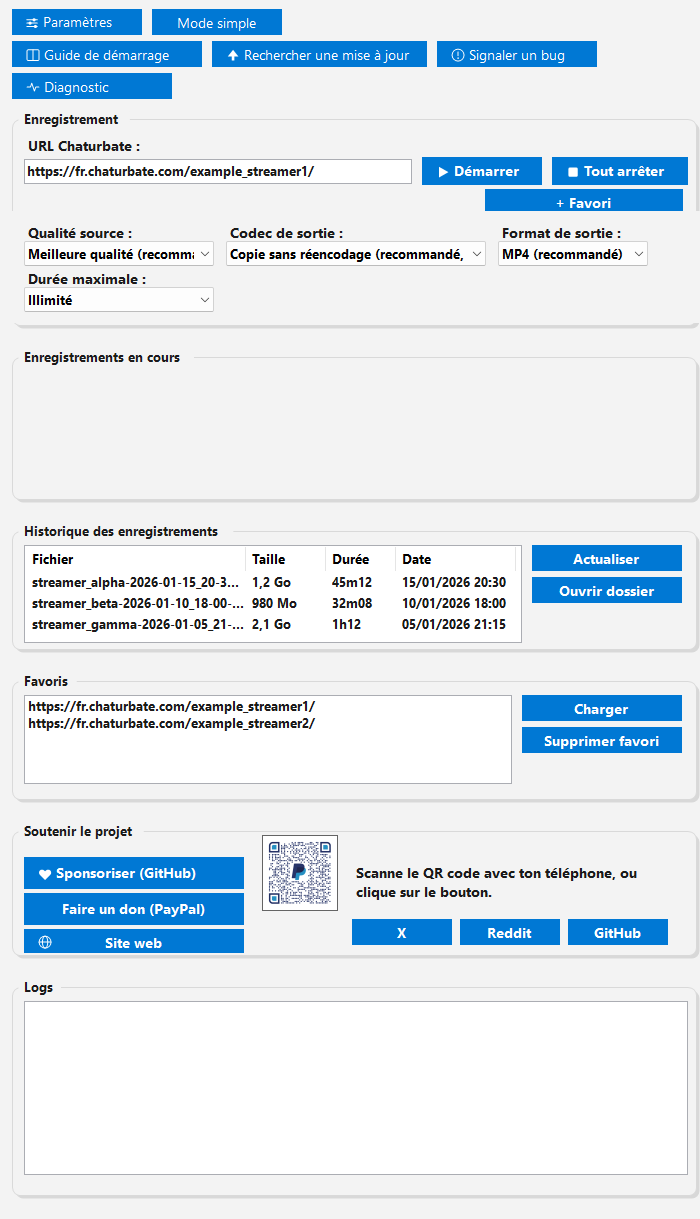
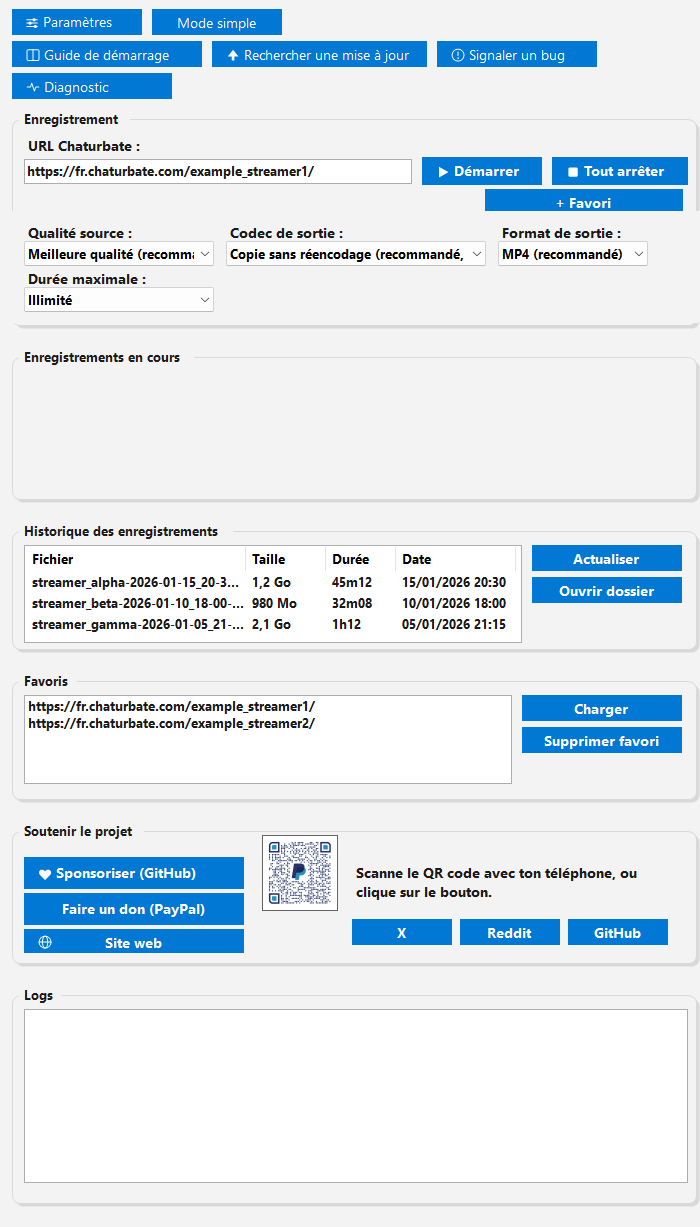
Decolle le bouton « Site web » de la bordure du panneau (v1.22.2) + captures finales
Defaut vu sur la capture regeneree en 99.0, pas signale par ailleurs : grpDonate
a 136 px ne laissait que 2 px sous le dernier bouton. Geometriquement correct
— rien ne debordait, le corps du panneau va jusqu'a Height - 4 et le bouton
finit a 130 — mais visuellement colle a la bordure, et c'est le premier detail
qui saute aux yeux sur une capture publiee. Hauteur portee a 144, soit 10 px de
garde, coherents avec les 34 px qui separent le haut du panneau du premier
bouton. grpLogs suit automatiquement (position calculee depuis grpDonate.Bottom
dans ApplyUiMode).

Captures clair et sombre remplacees par la version d'apres correctif, pour que
ce qui est publie corresponde a ce que l'utilisateur verra. La capture de la
fenetre Parametres est inchangee, SettingsForm n'ayant pas bouge.

Corollaire de methode retenu dans CLAUDE.md : regenerer les captures est aussi
une revue d'interface — c'est le seul moment ou l'on regarde l'ecran entier d'un
oeil neuf.

diff --git a/MainForm.cs b/MainForm.cs
@@ -2229,15 +2229,20 @@ namespace ChaturbateRecorderApp
             // Hauteur portée de 100 à 136 pour loger un troisième bouton : les
             // deux précédents descendaient déjà jusqu'à y=94.
             //
-            // 136 et pas moins : RoundedGroupPanel dessine son corps jusqu'à
-            // Height - 1 - ShadowSize, soit Height - 4. Le dernier bouton finit
-            // à y=130, donc 136 lui laisse les 2 px de garde qu'avait déjà le
-            // panneau d'origine (100 - 4 = 96 pour un bouton finissant à 94).
-            // À 132 il débordait sous la bordure — constaté à la capture.
+            // RoundedGroupPanel dessine son corps jusqu'à Height - 1 - ShadowSize,
+            // soit Height - 4, et le dernier bouton ("Site web") finit à y=130.
+            //
+            // 144 et non 136 : à 136 la garde n'était que de 2 px, ce qui est
+            // géométriquement correct (rien ne débordait) mais donne un bouton
+            // visuellement collé à la bordure — flagrant sur les captures
+            // publiées (99.0), où c'est le premier détail qui saute aux yeux.
+            // 144 porte la garde à 10 px, cohérente avec les 34 px qui séparent
+            // le haut du panneau du premier bouton. Ne pas descendre en dessous
+            // de 134 : à 132 le bouton passait réellement sous la bordure.
             //
             // La position de grpLogs est recalculée à partir de
             // grpDonate.Bottom dans ApplyUiMode, elle suit automatiquement.
-            grpDonate = new RoundedGroupPanel { Title = "Soutenir le projet", Location = new Point(12, 606), Size = new Size(660, 136) };
+            grpDonate = new RoundedGroupPanel { Title = "Soutenir le projet", Location = new Point(12, 606), Size = new Size(660, 144) };
             sponsorButton = new Button { Text = "Sponsoriser (GitHub)", Location = new Point(12, 34), Size = new Size(220, 32) };
             donateButton = new Button { Text = "Faire un don (PayPal)", Location = new Point(12, 70), Size = new Size(220, 32) };
             websiteButton = new Button { Text = "Site web", Location = new Point(12, 106), Size = new Size(220, 24) };

diff --git a/Config/Changelog.cs b/Config/Changelog.cs
@@ -181,6 +181,10 @@ namespace ChaturbateRecorderApp.Config
                 "Correctif : lancer l'exécutable plusieurs fois ouvrait autant d'instances, empilant les icônes dans la barre des tâches. Un second lancement réaffiche désormais la fenêtre déjà ouverte — utile depuis que la fenêtre se masque dans la zone de notification au lieu de se fermer.",
                 "Correctif : le texte du bouton \"Site web\" n'était pas centré comme celui des boutons \"Sponsoriser\" et \"Faire un don\" juste au-dessus.",
             }),
+            ("1.22.2", new[]
+            {
+                "Le bouton \"Site web\" n'est plus collé à la bordure basse du panneau \"Soutenir le projet\" : le panneau a été agrandi pour lui laisser la même marge que celle du haut.",
+            }),
         };
 
         /// <summary>
@@ -242,6 +246,10 @@ namespace ChaturbateRecorderApp.Config
                 "Fix: adding an offline live triggered an error notification every 30 seconds, indefinitely, and it kept coming even after the recording had been cancelled and removed from the list. The 5-attempt reconnection limit in fact never applied, and removing a row left yt-dlp running in the background.",
                 "Fix: launching the executable several times opened as many instances, stacking icons in the taskbar. A second launch now brings the already-open window back — useful since the window hides in the notification area instead of closing.",
                 "Fix: the \"Website\" button's text was not centred like that of the \"Sponsor\" and \"Donate\" buttons just above it.",
+            },
+            ["1.22.2"] = new[]
+            {
+                "The \"Website\" button is no longer flush against the bottom border of the \"Support the project\" panel: the panel was made taller to give it the same margin as the top.",
             },
         };
 

diff --git a/CLAUDE.md b/CLAUDE.md
@@ -4,12 +4,24 @@ App WinForms .NET 10, portage d'un script PowerShell (`legacy-powershell/`).
 Dépôt public : https://github.com/Tomoushie/ChaturbateRecorder (branche `main`).
 Site : https://tomoushie.github.io/ChaturbateRecorder/
 
-## État au 2026-08-04 — version courante : v1.22.1 (app), SentinelGuard 1.0.0 sur nuget.org, CI/CD + site Jekyll en place (34.0/37.0), site/README/wiki bilingues (25.0/25.1)
+## État au 2026-08-04 — version courante : v1.22.2 (app), SentinelGuard 1.0.0 sur nuget.org, CI/CD + site Jekyll en place (34.0/37.0), site/README/wiki bilingues (25.0/25.1)
 
 (Cet en-tête a déjà été laissé en retard trois fois : v1.15.0 Crash Reporter,
 v1.16.0 Diagnostic Mode, puis v1.19.0. **Le mettre à jour fait partie du bump
 de version**, au même titre que `<Version>` dans le csproj et l'entrée de
 `Config/Changelog.cs` — voir la section Conventions en bas de fichier.)
+
+**v1.22.2 + 99.0 (2026-08-04)** — captures d'écran publiées régénérées (README
++ les trois du site) : elles dataient d'avant la v1.19.0 et ne montraient ni
+Diagnostic, ni Sponsoriser, ni le menu « Durée maximale » (87.0), ni les boutons
+de partage (50.0). **Méthode** : injecter les données factices directement dans
+les contrôles pendant la capture (`historyListView.Items.Add`) plutôt que de
+faire lire le dossier de captures — le contenu réel de l'utilisateur ne doit
+jamais atteindre un fichier publié. Le bump 1.22.2 vient d'un défaut vu **sur la
+capture elle-même** : `grpDonate` à 136 px ne laissait que 2 px sous « Site web »
+— géométriquement correct, visuellement collé à la bordure. Porté à 144.
+Corollaire de méthode : régénérer les captures est aussi une revue d'interface,
+c'est le seul moment où on regarde l'écran entier d'un œil neuf.
 
 **v1.22.1 (2026-08-04) — lot de correctifs 95.0 / 93.0 / 94.0** :
 - **95.0, le vrai coupable** : `DownloadEngine` lève `Running` dès que le
